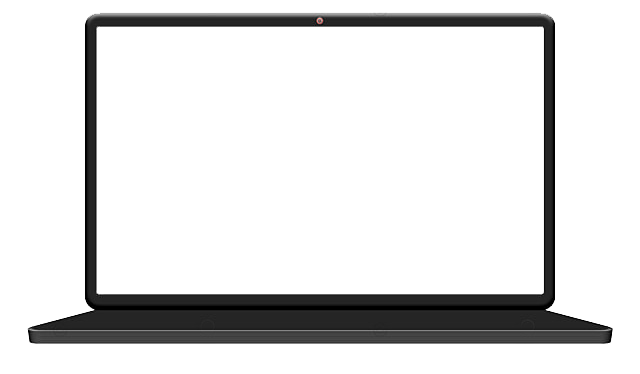
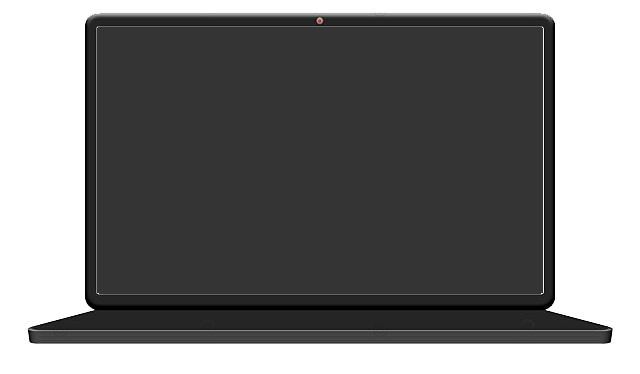
service panel done

diff --git a/index.html b/index.html
@@ -46,7 +46,7 @@
         </div> 
     </header>
     
-    <section id="whorv" > 
+    <section id="whorv"> 
         <div class="container">
             <div class="row">
                 <div class="col-lg-6 about">
@@ -61,7 +61,7 @@
     <div class="empty"></div>
 
 
-    <section style="background-image: url(files/img/13.jpeg); height: 8300px; background-size: contain;"id="service-panel">
+    <section style="background-image: url(files/img/13.jpeg); height: 4800px; background-size: contain;"id="service-panel">
         <div class="container">
             <div class="row">
                 <div class="col-xxl-6" style="color: white;">
@@ -100,19 +100,21 @@
                         <div class="text-center mt-4" style="padding-top: 30px;"><a class="btn btn-outline-light btn-xl" role="button" href="Services.html#teaching"></i>Read More</a></div>
                     </div>
                 </div>
-                <div class="col-xxl-6" style="height: 8000px;"id="laptop">
+                <div class="col-xxl-6" style="height: 4500px;"id="laptop">
                     <div id="stickey-laptop" >
                         <img src="files/img/laptop.jpeg" style=" position: absolute;">
-                       <!--<div id="laptop-screen">
-                            <img src="files/img/teaching.gif" id="a" class="laptop-images">
-                            <img src="files/img/coding.gif" id="b"class="laptop-images">
-                            <img src="files/img/graphic.gif" id="c"class="laptop-images">
-                            <img src="files/img/marketing.gif" id="d"class="laptop-images">
-                            <img src="files/img/business.gif" id="e"class="laptop-images">
-                            <img src="files/img/app.gif" id="f"class="laptop-images">
-                            <img src="files/img/security.gif" id="g"class="laptop-images">
-                            <img src="files/img/webb.gif" id="h"class="laptop-images">
-                        </div> --> 
+                       <div id="laptop-screen">
+                           <div id="hor-scroll">
+                            <img src="files/img/webb.gif" class="laptop-images">
+                            <img src="files/img/security.gif" class="laptop-images">
+                            <img src="files/img/app.gif" class="laptop-images"> 
+                            <img src="files/img/business.gif" class="laptop-images">
+                            <img src="files/img/marketing.gif" class="laptop-images">
+                            <img src="files/img/graphic.gif" class="laptop-images">
+                            <img src="files/img/coding.gif" class="laptop-images">
+                            <img src="files/img/teaching.gif" class="laptop-images">   
+                        </div>
+                        </div> 
                     </div>   
                 </div>
             </div>

diff --git a/files/js/home.js b/files/js/home.js
@@ -1,9 +1,15 @@
 
 a=$(window).scrollTop();
+h=$(window).height();
+ww=$(window).width()
+$("#static_image").css("display","block")
+$("#static_image").css("width",ww)
 r=1;
 i=1;
 l=1;
-h=$(window).height();
+q=0
+x=["0","0","0","0","0","0","0","0"]
+y=["0","0","0","0","0","0","0","0"]
 $("#static_image").css("height",$(window).height())
 function verifysize(){
     ww=$(window).width()
@@ -17,7 +23,7 @@ function verifysize(){
     $("#wwd").css("height","800px")
     $(".abtus").css("font-size","20px")
     $("#laptop").css("display","none")
-    $("#service-panel").css("height","8300px")
+    $("#service-panel").css("height","4800px")
     $("#icon").attr("href","files/img/fevicon.png")
     $(".gif").css("zoom","70%")
     $(".gif").css("margin","16% 0%")
@@ -60,8 +66,7 @@ $(window).on("scroll touchmove",function() {
     var scroll = $(window).scrollTop();
     var zoom=172800/$(window).width();
     $("#back_img,nav").css("background-size",zoom+scroll/5+"%");
-    if(scroll>(h+50)){
-        $("#static_image").css("display","block")
+    if(scroll>($("#whorv").offset().top-50)){
         $("nav").css("background-image","url(files/img/13.jpeg)")
         if(a-scroll>0&&r==0){
             $("nav").fadeIn(150);
@@ -76,28 +81,27 @@ $(window).on("scroll touchmove",function() {
         $("nav").css("background-image","url(files/img/12.jpeg)")
         $("nav").fadeIn(150);
     }
-    var g=$("#t"+i).offset().top
-    if(a<scroll){
-        if(scroll+h>=g&&l==1){
-            l=0;
-            $("#t"+i).animate({opacity:"1"},500);
+    for(i=1;i<9;i++){
+        item=$("#t"+i)
+        if(((item.offset().top+item.height())<=(scroll+h) )&& (item.offset().top>=scroll))
+        {
+            if(JSON.stringify(x)==JSON.stringify(y)){
+                x[i-1]="1"
+                item.animate({opacity:"1"},100);
+                q=i
+                $("#laptop-screen").animate({scrollLeft:(i-1)*444.2}, 300);
+               
+            }
+            
         }
-        if(scroll>=g&&l==0){
-            $("#t"+i).animate({opacity:"0"},500);
-            i++
-            l=1;
+        else {
+            if(i==q){
+                x[i-1]="0"
+                item.animate({opacity:"0"},100);
+                q=0
+            }
         }
-    }
-    else if(a>scroll){
-        if(scroll>=g&&l==1){
-            $("#t"+i).animate({opacity:"1"},500);
-            i--
-            l=0;
-        }
-        if(scroll+h>=(g)&&l==0){
-            l=1;
-            $("#t"+i).animate({opacity:"0"},500);
-        }
+        
     }
     
     a=$(window).scrollTop();

diff --git a/files/css/home.css b/files/css/home.css
@@ -85,16 +85,40 @@
             box-shadow: none;
         }
         .laptop-images{
-            height: 312px;
-            position: absolute;
+            height: 260px;
+            width: 441px;
+            position: relative;
+            margin: auto;
+            left: 50%;
+            top: 50%;
+            -webkit-transform: translate(-50%, -50%);
+            transform: translate(-50%, -50%);
+            padding: 0;
+            margin: 0;
         }
         #laptop-screen{
             position:absolute; 
-            height: 312px;
-            width: 518px;
-            left: 126px;
-            top: 26px;
+            height: 260px;
+            width: 441px;
+            left: 137px;
+            top: 31px;
+            background-color: white;
+            overflow:hidden;
+            -ms-overflow-style: none;
+            padding: 0;
+            margin: 0;
         }
         #t1,#t2,#t3,#t4,#t5,#t6,#t7,#t8{
             opacity: 0;
+            padding: 0;
+            margin: 0;
+        }
+        #laptop-screen::-webkit-scrollbar{
+            display: none;
+        }
+        #hor-scroll{
+            height: 260px;
+            white-space: nowrap;
+            padding: 0;
+            margin: 0;
         }
